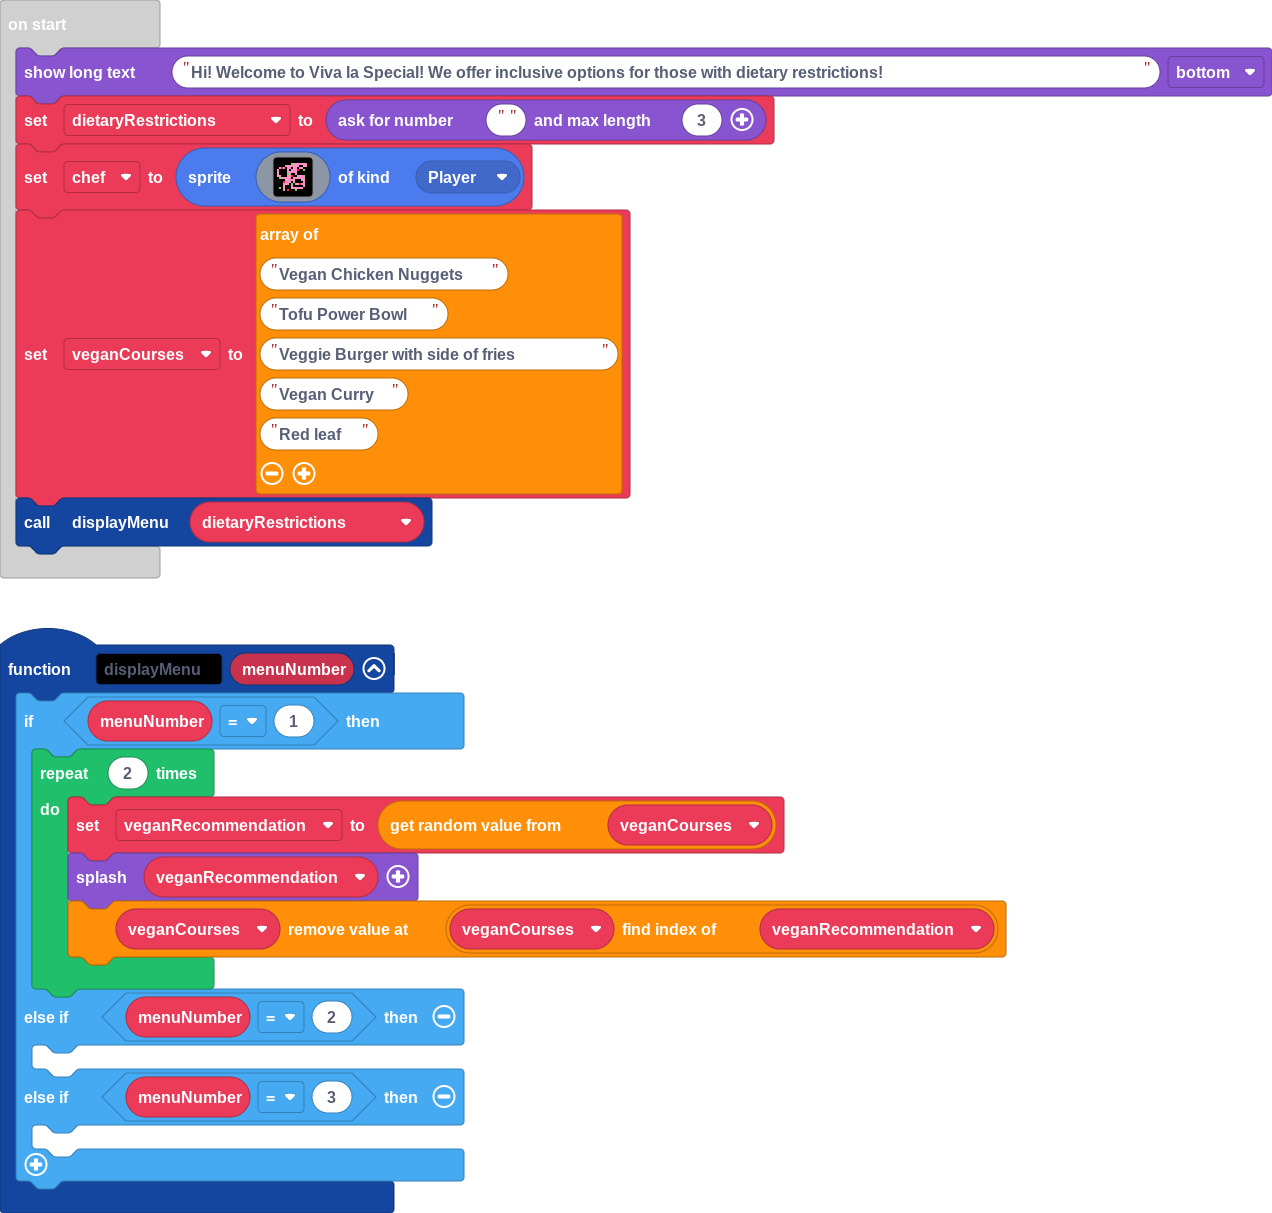
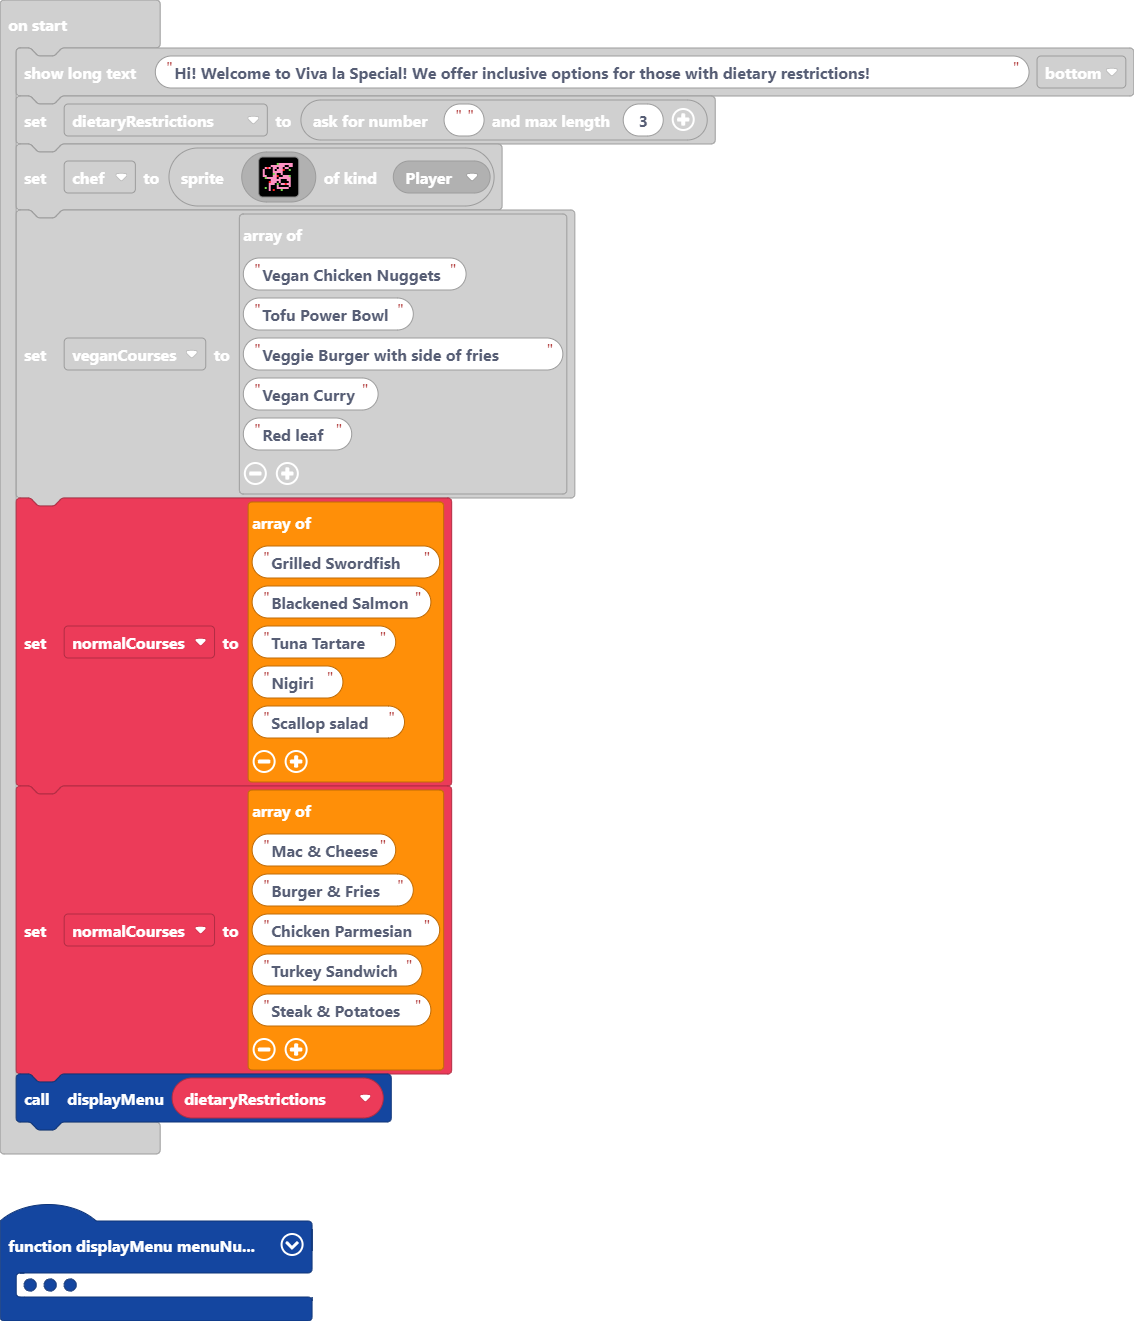
Update main.blocks, main.ts

diff --git a/main.ts b/main.ts
@@ -40,4 +40,18 @@ veganCourses = [
 "Vegan Curry",
 "Red leaf"
 ]
+let normalCourses = [
+"Grilled Swordfish",
+"Blackened Salmon",
+"Tuna Tartare",
+"Nigiri",
+"Scallop salad"
+]
+normalCourses = [
+"Mac & Cheese",
+"Burger & Fries",
+"Chicken Parmesian",
+"Turkey Sandwich",
+"Steak & Potatoes"
+]
 displayMenu(dietaryRestrictions)
